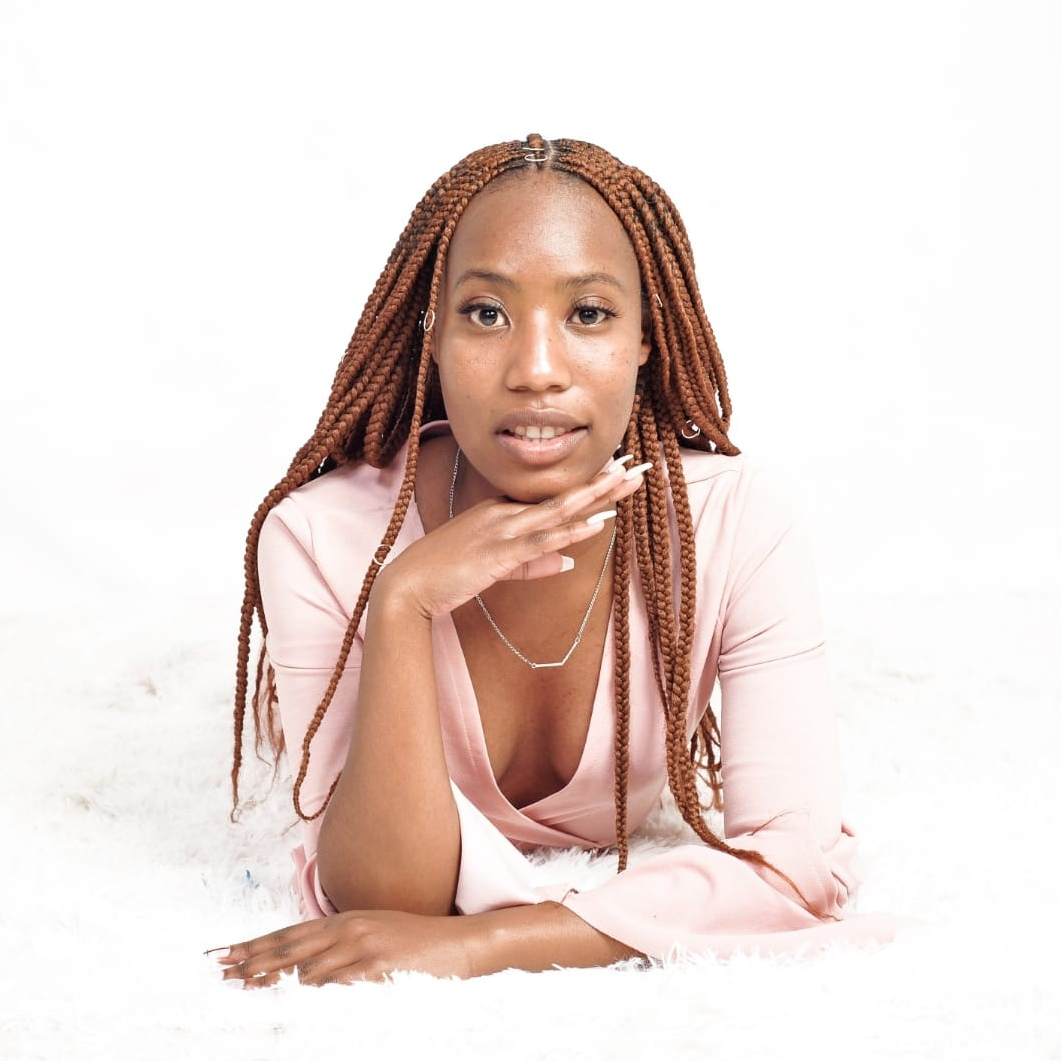
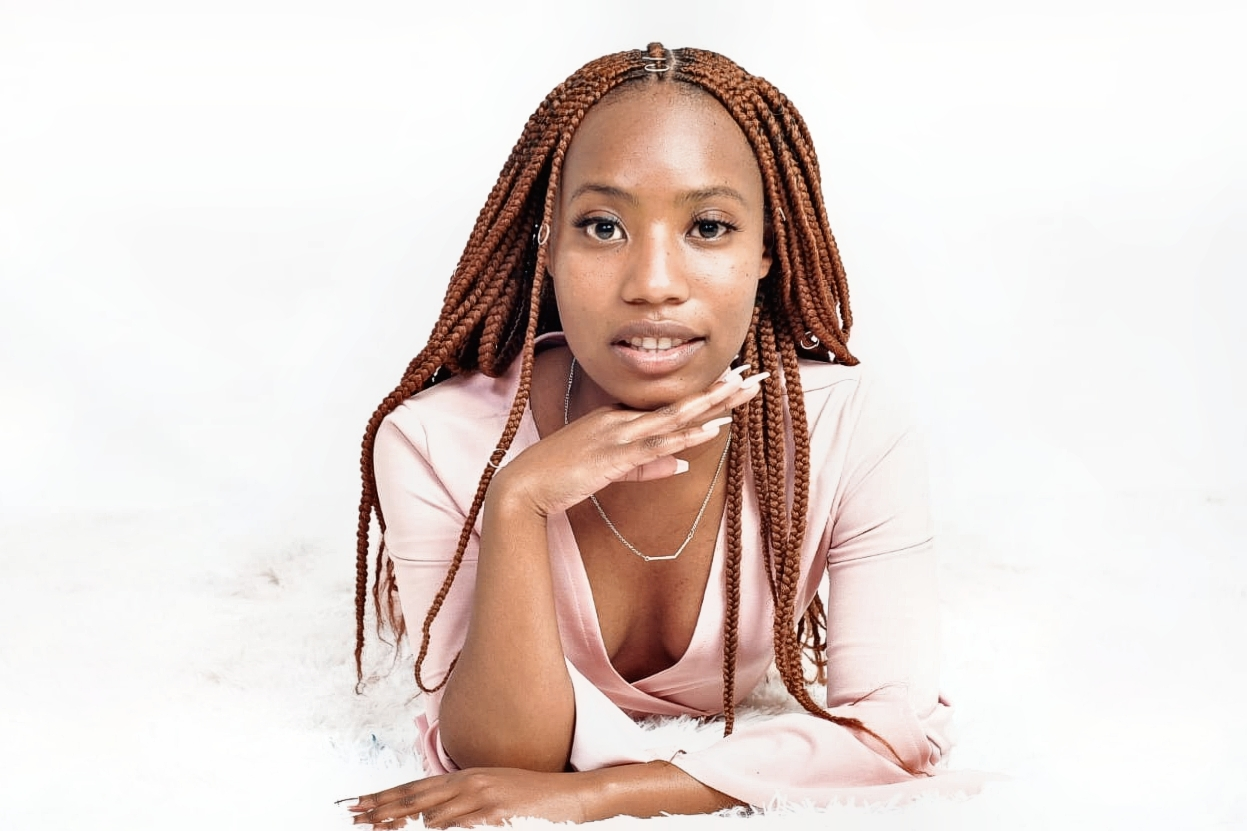
fixed picture element

Changed region(s): [[0.1866, 0.0301, 0.8087, 1.0], [0.1244, 0.6318, 0.1555, 0.6619], [0.0622, 0.7521, 0.0933, 0.7822]]

diff --git a/SIMMBU262_FTOW2306_SimphiweMbuli_ITW/css/resume8.css b/SIMMBU262_FTOW2306_SimphiweMbuli_ITW/css/resume8.css
@@ -1,0 +1,92 @@
+/* mobile styles */
+@media (max-width: 599px) {
+    .hero-content {
+        flex-direction: column;
+        align-items: center;
+        text-align: center;
+    }
+
+    header {
+        margin-bottom: 20px;
+    }
+
+    aside {
+        margin-top: 20px;
+    }
+
+    nav ul {
+        flex-direction: column;
+    }
+
+    nav li {
+        margin-bottom: 10px;
+    }
+    
+    article {
+        padding: 20px;
+    }
+
+    footer {
+        padding: 20px;
+    }
+}
+
+/* Tablet Styles */
+@media (min-width: 600px) and (max-width: 1023px) {
+    .hero-content {
+        flex-direction: column;
+        align-items: center;
+        text-align: center;
+    }
+
+    aside {
+        margin-left: 20px;
+    }
+
+    nav ul {
+        flex-direction: row;
+    }
+
+    nav li {
+        margin-right: 20px;
+    }
+
+    article {
+        padding: 40px;
+    }
+
+    footer {
+        padding: 40px;
+    }
+}
+
+/* Laptop Styles */
+@media (min-width: 1024px) {
+    .hero-content {
+        flex-direction: column;
+        align-items: center;
+        text-align: center;
+    }
+
+    aside {
+        margin-left: 40px;
+    }
+
+    nav ul {
+        display: flex;
+        justify-content: center;
+        font-size: 35px;
+    }
+
+    nav li {
+        margin-right: 40px;
+    }
+
+    article {
+        padding: 60px;
+    }
+
+    footer {
+        padding: 60px;
+    }
+}

diff --git a/SIMMBU262_FTOW2306_SimphiweMbuli_ITW/resume8.html b/SIMMBU262_FTOW2306_SimphiweMbuli_ITW/resume8.html
@@ -5,7 +5,7 @@
         <title>resume7-2</title>
         <link rel="stylesheet" href="./css/resume5.css">
         <link rel="stylesheet" href="./css/resume7-2.css">
-
+        <link rel="stylesheet" href="./css/resume8.css">
     </head>
     <body>
         <div class="hero">
@@ -16,10 +16,11 @@
                 </header> 
                 <aside>
                     <picture>
-                        <source media="(max-width: 650px)" srcset="./Images/phone-sized.jpg">
-                        <source media="(min-width: 651px) and (max-width: 1000px)" srcset="./Images/tablet-sized.jpg">
-                        <img src="./Images/laptop-sized.jpg" alt="Simphiwe Mbuli">
-                      </picture>         
+                        <source media="(min-width: 1024px)" srcset="./Images/phone-sized.jpg">
+                        <source media="(min-width: 600px) and (max-width: 1023px)" srcset="./Images/tablet-sized.jpg">
+                        <source media="(max-width: 599px)" srcset="./Images/phone-sized.jpg">
+                        <img src="./Images/phone-sized.jpg" alt="Simphiwe Mbuli">
+                    </picture>    
                 </aside>
             </div>
         </div>

diff --git a/SIMMBU262_FTOW2306_SimphiweMbuli_ITW/css/resume7-2.css b/SIMMBU262_FTOW2306_SimphiweMbuli_ITW/css/resume7-2.css
@@ -1,12 +1,12 @@
 .hero {
-    background-image: url(simphiwe-mbuli.jpg);
+    background-image: url(./Images/laptop-sized.jpg);
     background-repeat: repeat;
     background-position: center center;
-    background-color: rosybrown;
+    background-color: rgb(122, 113, 113);
 }
 
 .hero-content {
-    height: 80vh; /* Set the hero content height to fill the viewport */
+    height: 80vh;
     display: flex;
     align-items: center;
     flex-direction: column;
@@ -15,15 +15,15 @@
 }
 
 hero-content header {
-    margin-bottom: 20px;
+    margin-bottom: 35px;
 }
 
 .hero-content h1 {
-    font-size: 48px;
+    font-size: 60px;
     font-weight: bold;
 }
 
 .hero-content h2 {
-    font-size: 50px;
+    font-size: 55px;
     font-weight: normal;
 }

diff --git a/SIMMBU262_FTOW2306_SimphiweMbuli_ITW/css/resume5.css b/SIMMBU262_FTOW2306_SimphiweMbuli_ITW/css/resume5.css
@@ -8,10 +8,10 @@ body {
 
 /* Apply styles  to the header section */
 header {
-    background-color: rosybrown;
-    color: white;
+    background-color: rgb(189, 158, 158);
+    color: rgb(39, 36, 36);
     text-align: center;
-    padding: 20px;
+    padding: 30px;
     
 }
 
@@ -55,7 +55,7 @@ article {
 
 /* Apply stytles to the footer section */
 footer {
-    background-color: darkslategray;
+    background-color: dimgray;
     color: white;
     font-weight: bold;
     text-align: center;
